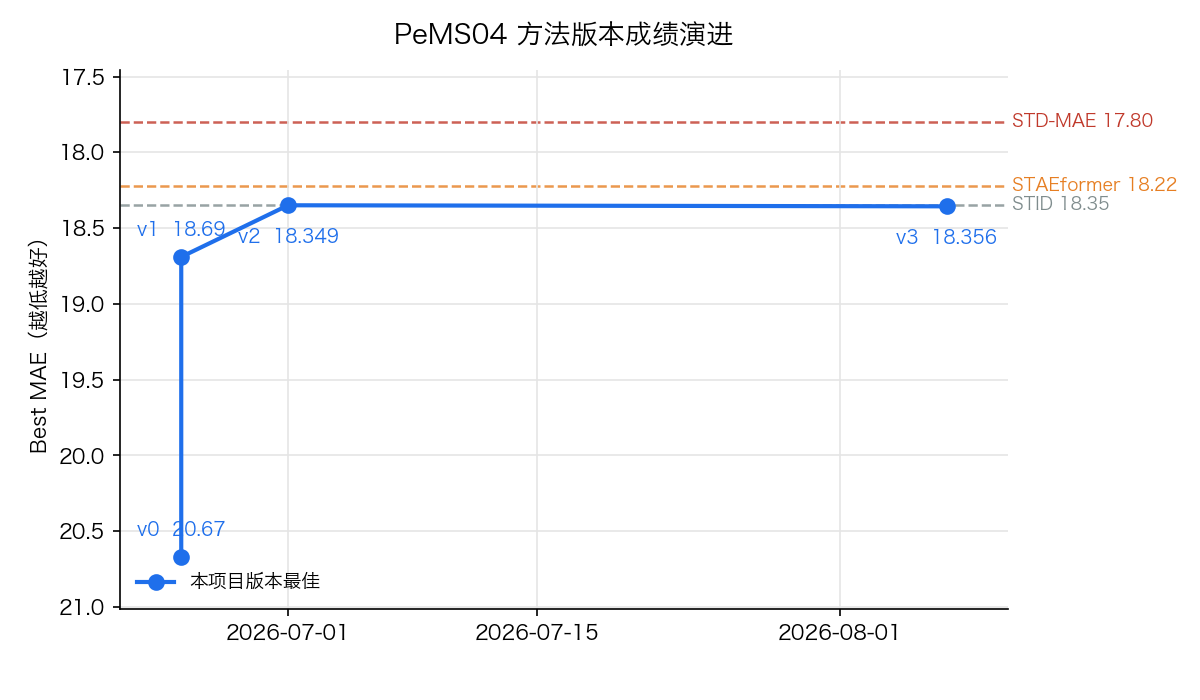
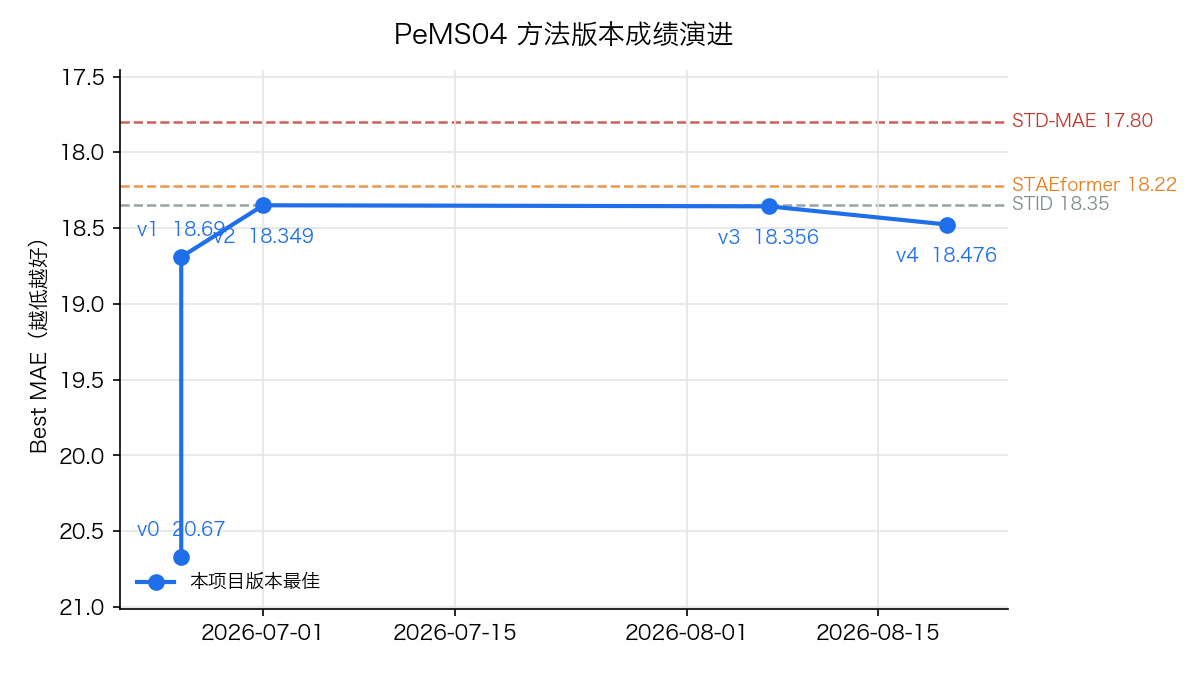
docs(b7v1): B7 v1 收关 — 路由失效定性 + 版本榜 v4 行 + 当前最佳口径修正
- 收关说明 docs/B7_V1_CLOSEOUT.md: aux activation=0 / insights=0, 非机制负结果;
  披露服务器 git HEAD(4290db0) 与 rsync 源 commit(a7cda24) 的差异
- versions.json v4 行 (18.476, tag b7-v1-routing-failure-18.476); 补回 v2 最佳模型卡路径
- 版本榜 README 增加 val MAE vs 文献 test MAE 混排的醒目口径声明
- 当前最佳改为全版本 min(best_mae) (v2 18.349), 不再假设最新=最佳; 同步修正测试契约
- .gitignore 排除 frozen-runs/ (原始证据资产)

Generated with dmxapi

diff --git a/tests/test_version_board.py b/tests/test_version_board.py
@@ -106,7 +106,8 @@ def _rows():
         _rec("v0", 20.67, date="2026-06-25", title="纯 NAS + HPO",
              retrospective="docs/SERVER_VALIDATION.md"),
         _rec("v2", 18.349, date="2026-07-01", tag="v-sota-pems04-18.35",
-             retrospective="docs/SOTA_RETROSPECTIVE.md"),
+             retrospective="docs/SOTA_RETROSPECTIVE.md",
+             model_dir="models/PeMS04/05_mae18.35_f93f4598"),
         _rec("v3", 18.356, date="2026-08-07", tag="acceptable+18.356",
              retrospective="docs/TIER2_V1_RETROSPECTIVE.md",
              model_dir="models/PeMS04/06_mae18.36_6bcc97b9"),
@@ -141,8 +142,11 @@ def test_render_version_readme_md_key_elements():
     assert "## 方法版本榜 (PeMS04)" in md
     assert "![PeMS04 方法版本成绩演进](assets/pems04_version_trend.png)" in md
     assert "## 当前最佳" in md
-    assert "**v3**" in md and "18.356" in md and "**6** / 7" in md
-    assert "[models/PeMS04/06_mae18.36_6bcc97b9](models/PeMS04/06_mae18.36_6bcc97b9/)" in md
+    # 当前最佳 = 全版本 min(best_mae) (v2 18.349 < v3 18.356), 不假设"最新=最佳"
+    sec = md[md.index("## 当前最佳"):]
+    assert "**v2**" in sec and "18.349" in sec and "**5** / 7" in sec
+    assert "[models/PeMS04/05_mae18.35_f93f4598](models/PeMS04/05_mae18.35_f93f4598/)" in sec
+    assert "06_mae18.36_6bcc97b9" not in sec                  # 非最佳版本的模型卡不进"当前最佳"节
     assert "`acceptable+18.356`" in md
     assert "[PeMS04.md](PeMS04.md)" in md
     assert "[docs/](../docs/)" in md

diff --git a/src/darwin_st/leaderboard.py b/src/darwin_st/leaderboard.py
@@ -465,7 +465,10 @@ def render_version_board_md(
         )
     lines += ["",
               f"> 位次口径: 该版本最佳单独与已发表 baseline 混排 (不同版本互不占位); "
-              f"完整模型存档见 [{dataset}.md]({dataset}.md)。", ""]
+              f"完整模型存档见 [{dataset}.md]({dataset}.md)。", "",
+              "> ⚠ **指标口径声明**: 本项目版本行 Best MAE 为**验证集 (val) MAE** "
+              "(split 6/2/2, masked metric, 12 horizons 平均); 已发表 baseline/SOTA 数值为**文献报告的 test MAE**。"
+              "两者口径不同, 混排位次仅供演进参照, 不构成严格可比的排名结论。", ""]
     return "\n".join(lines)
 
 
@@ -495,9 +498,10 @@ def render_version_readme_md(
         lines += ["## 成绩随版本演进", "",
                   f"![{dataset} 方法版本成绩演进]({trend_image})", ""]
 
-    # 当前最佳: rows 按日期升序, 最后一个版本即当前方法; 其 best 即项目当前最佳
+    # 当前最佳: 取全版本 min(best_mae) —— 版本不一定单调变强 (如 v4 路由失效收关),
+    # 不能假设"最新=最佳"。同分时取日期更早者 (先达到者占优)。
     if rows:
-        cur = rows[-1]
+        cur = min(rows, key=lambda r: (r.record.best_mae, r.record.date))
         lines += ["## 当前最佳", "",
                   f"- **{cur.record.version}** ({cur.record.date}): "
                   f"Best MAE **{_fmt_mae3(cur.record.best_mae)}**, "

diff --git a/scripts/build_version_board.py b/scripts/build_version_board.py
@@ -167,7 +167,7 @@ def main() -> None:
     with open(args.readme, "w", encoding="utf-8") as f:
         f.write(md)
 
-    best = rows[-1] if rows else None
+    best = min(rows, key=lambda r: (r.record.best_mae, r.record.date)) if rows else None
     print(f"✅ 版本榜构建完成: {len(rows)} 个版本 → {args.readme} + {args.out}")
     if best is not None:
         print(f"   当前最佳: {best.record.version} MAE={best.record.best_mae} "

diff --git a/docs/B7_V1_CLOSEOUT.md b/docs/B7_V1_CLOSEOUT.md
@@ -1,0 +1,39 @@
+# B7 v1 收关说明（路由失效定性）
+
+日期：2026-08-20 ｜ RUN_COMMIT：`a7cda24` ｜ tag：`b7-v1-routing-failure-18.476`
+
+## 一句话结论
+
+B7 v1 期间长跑基建经受了多次断电/关机恢复的考验（恢复后均正常续跑），
+但 **aux（训练方式创造）通道路由失效：activation = 0**。本轮 best 18.476 不能作为
+辅助任务机制有效或无效的证据——该机制从未真正上场。
+
+## 关键数字
+
+- best val MAE = **18.47564697265625**（PeMS04，总评估 550，masked metric，12 horizons 平均，split 6/2/2）
+- 创造履历记录 38 条（creation_archive_b7v1.jsonl）。
+  **注意：一次创造动作可写入多条履历记录（多假设成败各一条），38 条记录 ≠ 38 次创造动作；
+  动作粒度的精确统计自 v2 动作账本（tier2_actions.jsonl）起可用，本轮不做追溯换算。**
+- aux_attempts = 0；insights = 0（反思环节因游标未持久化 + watchdog 重启而从未触发）
+- refine:best_shot 集中于 ScaleGatedGCNExpertMixer 一族（精炼至 v20）
+
+## 代码版本披露
+
+tag 指向本地 commit `a7cda24`。**服务器 repo 的 git HEAD 实际停在 `4290db0`**，
+运行代码是经 rsync 覆盖工作树部署的；抽样 5 个改动文件的 SHA-256 与本地 `a7cda24`
+一致（唯一例外 `leaderboard/README.md`，为榜单导出物，不影响运行逻辑）。
+即：`a7cda24` 是运行内容的来源 commit，服务器 git 元数据未同步推进。
+
+## 三个已定位的失效点（v2 修复对象）
+
+1. **反思环节（F1）**：游标是进程内存快照，watchdog 重启即重置，未满 20 条创造履历的增量被永久跳过；
+   叠加计数口径是创造履历（约占评估 5.7%），单次进程存活期内数学上不可能攒够。
+2. **aux 路由（F2）**：检索打分天然压死掩码族卡（前提词供给断裂 + 子模选择 tie-break），
+   且 refine-first 调度使配额放在 create 内部也拿不到执行机会。
+3. **精炼垄断（F3）**：`_pick_refine_candidate` 纯贪心，最强家族恒满足候选条件且排第一。
+
+## 资产冻结
+
+原始证据（db / 创造履历 / direction_state / 日志 / 动态算子目录 / SHA-256 manifest）冻结于
+`frozen-runs/b7v1/`（不入 git）；checkpoint（1.0G）留服务器数据盘，哈希已入服务器侧 manifest。
+服务器侧原始文件在 v2 上线前保持不动。

diff --git a/leaderboard/README.md b/leaderboard/README.md
@@ -12,8 +12,11 @@
 | **v1**<br>Tier-2 创造闭环首通：LLM 跨域合成算子注入进化（线程版） | 2026-06-25 | **18.69** | +0.89 | **8** / 12 | — | [复盘](../docs/SERVER_VALIDATION.md) |
 | **v2**<br>Stage1 搜索空间升级（joint/cross/iterative fusion）+ 24h 长跑 | 2026-07-01 | **18.349** | +0.55 | **6** / 12 | `v-sota-pems04-18.35` | [复盘](../docs/SOTA_RETROSPECTIVE.md) |
 | **v3**<br>Tier-2 v1 方法升级（履历/家谱精炼/proxy/信用分/独立采样 + 631 卡机制库） | 2026-08-07 | **18.356** | +0.56 | **7** / 12 | `acceptable+18.356` | [复盘](../docs/TIER2_V1_RETROSPECTIVE.md) |
+| **v4**<br>B7 训练方式创造通道上线（aux 契约/七门验证/训练链路）— 收关定性：aux 路由失效(activation=0)+反思未触发，非机制负结果 | 2026-08-20 | **18.476** | +0.68 | **7** / 12 | `b7-v1-routing-failure-18.476` | [复盘](../docs/B7_V1_CLOSEOUT.md) |
 
 > 位次口径: 该版本最佳单独与已发表 baseline 混排 (不同版本互不占位); 完整模型存档见 [PeMS04.md](PeMS04.md)。
+
+> ⚠ **指标口径声明**: 本项目版本行 Best MAE 为**验证集 (val) MAE** (split 6/2/2, masked metric, 12 horizons 平均); 已发表 baseline/SOTA 数值为**文献报告的 test MAE**。两者口径不同, 混排位次仅供演进参照, 不构成严格可比的排名结论。
 
 ## 成绩随版本演进
 
@@ -21,9 +24,9 @@
 
 ## 当前最佳
 
-- **v3** (2026-08-07): Best MAE **18.356**, 榜单位次 **7** / 12, 距 SOTA (STD-MAE 17.80) +0.56
-- 模型卡: [models/PeMS04/07_mae18.36_6bcc97b9](models/PeMS04/07_mae18.36_6bcc97b9/)
-- git tag: `acceptable+18.356`
+- **v2** (2026-07-01): Best MAE **18.349**, 榜单位次 **6** / 12, 距 SOTA (STD-MAE 17.80) +0.55
+- 模型卡: [models/PeMS04/05_mae18.35_f93f4598](models/PeMS04/05_mae18.35_f93f4598/)
+- git tag: `v-sota-pems04-18.35`
 
 ## 完整存档与设计文档
 
